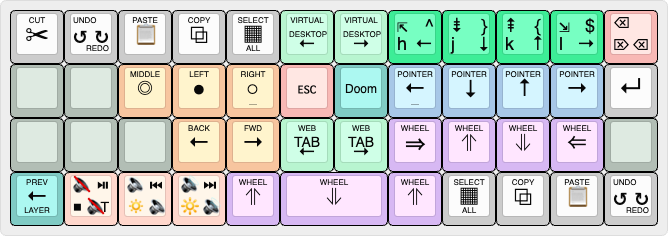
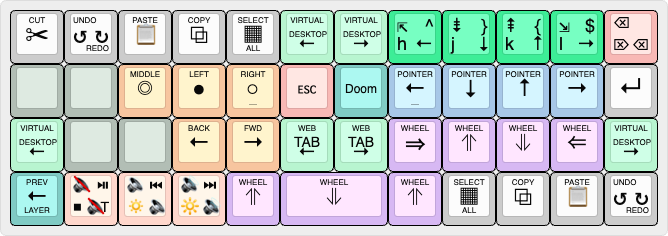
Minor changes: docs, MOUSE, some refactoring w/ constants

Changed region(s): [[0.0, 0.5042, 0.1198, 0.7415], [0.8982, 0.5042, 0.988, 0.7415]]

diff --git a/keymap.c b/keymap.c
@@ -36,10 +36,10 @@ const uint16_t PROGMEM keymaps[][MATRIX_ROWS][MATRIX_COLS] = {
  * └─────────┴─────────┴─────────┴─────────┴─────────┴───────────────────┴─────────┴─────────┴─────────┴─────────┴─────────┘
  */
 [_DOOM] = LAYOUT_planck_mit(
-    KC_ESC, ____,       ____,    KC_UP,      ____,    ____,       ____,     ____,       MS_UP,   ____,    ____,       ____,
-    TAB,    A(KC_LEFT), KC_LEFT, KC_DOWN,    KC_RGHT, A(KC_RGHT), ____,     MS_LEFT,    MS_DOWN, MS_RGHT, A(KC_RGHT), KC_ENT,
-    ____,   ____,       ____,    A(KC_DOWN), ____,    ____,       ____,     ____,       ____,    ____,    ____,       ____,
-    BASE,   MUTE,       VOLD,    VOLU,       MS_BTN1, MT(MOD_LSFT, KC_SPC), RCLK_UPPER, HOME,    PGDN,    PGUP,       END
+    KC_ESC, ____,        ____,    KC_UP,       ____,    ____,        ____, ____,       MS_UP,   ____,    ____,        ____,
+    TAB,    STRAFE_LEFT, KC_LEFT, KC_DOWN,     KC_RGHT, STRAFE_RGHT, ____, MS_LEFT,    MS_DOWN, MS_RGHT, STRAFE_RGHT, KC_ENT,
+    ____,   ____,        ____,    STRAFE_DOWN, ____,    ____,        ____, ____,       ____,    ____,    ____,        ____,
+    BASE,   MUTE,        VOLD,    VOLU,        MS_BTN1,     SPC_LSFT,      RCLK_UPPER, HOME,    PGDN,    PGUP,        END
 ),
 
 /* Numpad Layer: Hold Left Thumb Key
@@ -133,10 +133,10 @@ const uint16_t PROGMEM keymaps[][MATRIX_ROWS][MATRIX_COLS] = {
  * ZOOM+/-/RS changes browser size: increase, decrease, and reset
  */
 [_ARR_R] = LAYOUT_planck_mit(
-    CUT,  UNDO,    PASTE, COPY,    ____, ____, ANGLE_QUOTES, ALL,      COPY,      PASTE,      UNDO,       CUT,
-    DEG,  KC_BSLS, EXLM,  KC_UNDS, ____, ____, QUES,         KC_LEFT,  KC_DOWN,   KC_UP,      KC_RGHT,    ZOOM_IN,
-    ____, ____,    ____,  ____,    ____, ____, CIRC,         VDT_LEFT, VDT_RIGHT, C(KC_PGUP), C(KC_PGDN), ZOOM_OUT,
-    ____, ____,    ____,  ____,    ____,         MINS,       COMM,     ____,      ____,       ____,       ZOOM_RESET
+    CUT,  UNDO,    PASTE, COPY,    ____, ____, ANGLE_QUOTES, ALL,      COPY,      PASTE,    UNDO,     CUT,
+    DEG,  KC_BSLS, EXLM,  KC_UNDS, ____, ____, QUES,         KC_LEFT,  KC_DOWN,   KC_UP,    KC_RGHT,  ZOOM_IN,
+    ____, ____,    ____,  ____,    ____, ____, CIRC,         VDT_LEFT, VDT_RIGHT, TAB_LEFT, TAB_RGHT, ZOOM_OUT,
+    ____, ____,    ____,  ____,    ____,         MINS,       COMM,     ____,      ____,     ____,     ZOOM_RESET
 ),
 
 /* Home Row Arrows (LHS): Hold Right Index Finger on Home Row
@@ -154,10 +154,10 @@ const uint16_t PROGMEM keymaps[][MATRIX_ROWS][MATRIX_COLS] = {
  * ZOOM+/-/RS changes browser size: increase, decrease, and reset
  */
 [_ARR_L] = LAYOUT_planck_mit(
-    CUT,        UNDO,       PASTE,      COPY,     ALL,       ANGLE_QUOTES, ____, ____, COPY,    PASTE, UNDO,    CUT,
-    ZOOM_IN,    KC_LEFT,    KC_UP,      KC_DOWN,  KC_RGHT,   QUES,         ____, ____, KC_UNDS, EXLM,  KC_BSLS, DEG,
-    ZOOM_OUT,   C(KC_PGDN), C(KC_PGUP), VDT_LEFT, VDT_RIGHT, CIRC,         ____, ____, ____,    ____,  ____,    ____,
-    ZOOM_RESET, ____,       ____,       ____,     COMM,             MINS,        ____, ____,    ____,  ____,    ____
+    CUT,        UNDO,     PASTE,    COPY,     ALL,       ANGLE_QUOTES, ____, ____, COPY,    PASTE, UNDO,    CUT,
+    ZOOM_IN,    KC_LEFT,  KC_UP,    KC_DOWN,  KC_RGHT,   QUES,         ____, ____, KC_UNDS, EXLM,  KC_BSLS, DEG,
+    ZOOM_OUT,   TAB_LEFT, TAB_RGHT, VDT_LEFT, VDT_RIGHT, CIRC,         ____, ____, ____,    ____,  ____,    ____,
+    ZOOM_RESET, ____,     ____,     ____,     COMM,             MINS,        ____, ____,    ____,  ____,    ____
 ),
 
 /* (Neo)Vim (RHS): Hold Left Middle Finger on Home Row
@@ -282,18 +282,18 @@ const uint16_t PROGMEM keymaps[][MATRIX_ROWS][MATRIX_COLS] = {
  * ┌─────────┬─────────┬─────────┬─────────┬─────────┬─────────┬─────────┬─────────┬─────────┬─────────┬─────────┬─────────┐
  * │   CUT   │UNDO REDO│  PASTE  │  COPY   │ SEL ALL │DESKTOP ←│DESKTOP →│ ⇱ ^ h ← │ ⇟ } j ↓ │ ⇞ { k ↑ │ ⇲ $ l → │ ⌫   ⌦ ⌫ │
  * ├─────────┼─────────┼─────────┼─────────┼─────────┼─────────┼─────────┼─────────┼─────────┼─────────┼─────────┼─────────┤
- * │         │         │Mid Click│Lft Click│Rgt Click│   ESC   │         │Pointer ←│Pointer ↓│Pointer ↑│Pointer →│    ↵    │
+ * │         │         │Mid Click│Lft Click│Rgt Click│   ESC   │  DOOM   │Pointer ←│Pointer ↓│Pointer ↑│Pointer →│    ↵    │
  * ├─────────┼─────────┼─────────┼─────────┼─────────┼─────────┼─────────┼─────────┼─────────┼─────────┼─────────┼─────────┤
- * │         │         │         │  Back   │ Forward │  TAB ←  │  TAB →  │ Wheel → │ Wheel ↑ │ Wheel ↓ │ Wheel ← │         │
+ * │DESKTOP ←│         │         │  Back   │ Forward │  TAB ←  │  TAB →  │ Wheel → │ Wheel ↑ │ Wheel ↓ │ Wheel ← │DESKTOP →│
  * ├─────────┼─────────┼─────────┼─────────┼─────────┼─────────┴─────────┼─────────┼─────────┼─────────┼─────────┼─────────┤
  * │  BACK   │🔇⏯ ⏹ C+M│🔉⏮ 🔅🔉 │🔊⏭ 🔆🔊 │ Wheel ↑ │      Wheel ↓      │ Wheel ↑ │ SEL ALL │  COPY   │  PASTE  │UNDO REDO│
  * └─────────┴─────────┴─────────┴─────────┴─────────┴───────────────────┴─────────┴─────────┴─────────┴─────────┴─────────┘
  */
 [_MOUSE] = LAYOUT_planck_mit(
-    CUT,      UNDO, PASTE,   COPY,    ALL,     VDT_LEFT,   VDT_RIGHT,  HOME,    PGDN,    PGUP,    END,     BSPC,
-    ____,     ____, MS_BTN3, MS_BTN1, MS_BTN2, KC_ESC,     TO(_DOOM),  MS_LEFT, MS_DOWN, MS_UP,   MS_RGHT, KC_ENT,
-    ____,     ____, ____,    MS_BTN4, MS_BTN5, C(KC_PGUP), C(KC_PGDN), MS_WHLR, MS_WHLU, MS_WHLD, MS_WHLL, ____,
-    TG_MOUSE, MUTE, VOLD,    VOLU,    MS_WHLU,        MS_WHLD,         MS_WHLU, ALL,     COPY,    PASTE,   UNDO
+    CUT,      UNDO, PASTE,   COPY,    ALL,     VDT_LEFT, VDT_RIGHT, HOME,    PGDN,    PGUP,    END,     BSPC,
+    ____,     ____, MS_BTN3, MS_BTN1, MS_BTN2, KC_ESC,   DOOM,      MS_LEFT, MS_DOWN, MS_UP,   MS_RGHT, KC_ENT,
+    VDT_LEFT, ____, ____,    MS_BTN4, MS_BTN5, TAB_LEFT, TAB_RGHT,  MS_WHLR, MS_WHLU, MS_WHLD, MS_WHLL, VDT_RIGHT,
+    TG_MOUSE, MUTE, VOLD,    VOLU,    MS_WHLU,        MS_WHLD,      MS_WHLU, ALL,     COPY,    PASTE,   UNDO
 )
 
 };

diff --git a/rgb.c b/rgb.c
@@ -489,9 +489,9 @@ bool rgb_matrix_indicators_user(void) {
          * ┌─────────┬─────────┬─────────┬─────────┬─────────┬─────────┬─────────┬─────────┬─────────┬─────────┬─────────┬─────────┐
          * │   CUT   │UNDO REDO│  PASTE  │  COPY   │ SEL ALL │DESKTOP ←│DESKTOP →│ ⇱ ^ h ← │ ⇟ } j ↓ │ ⇞ { k ↑ │ ⇲ $ l → │ ⌫   ⌦ ⌫ │
          * ├─────────┼─────────┼─────────┼─────────┼─────────┼─────────┼─────────┼─────────┼─────────┼─────────┼─────────┼─────────┤
-         * │         │         │Mid Click│Lft Click│Rgt Click│   ESC   │         │Pointer ←│Pointer ↓│Pointer ↑│Pointer →│    ↵    │
+         * │         │         │Mid Click│Lft Click│Rgt Click│   ESC   │  DOOM   │Pointer ←│Pointer ↓│Pointer ↑│Pointer →│    ↵    │
          * ├─────────┼─────────┼─────────┼─────────┼─────────┼─────────┼─────────┼─────────┼─────────┼─────────┼─────────┼─────────┤
-         * │         │         │         │  Back   │ Forward │  TAB ←  │  TAB →  │ Wheel → │ Wheel ↑ │ Wheel ↓ │ Wheel ← │         │
+         * │DESKTOP ←│         │         │  Back   │ Forward │  TAB ←  │  TAB →  │ Wheel → │ Wheel ↑ │ Wheel ↓ │ Wheel ← │DESKTOP →│
          * ├─────────┼─────────┼─────────┼─────────┼─────────┼─────────┴─────────┼─────────┼─────────┼─────────┼─────────┼─────────┤
          * │  BACK   │🔇⏯ ⏹ C+M│🔉⏮ 🔅🔉 │🔊⏭ 🔆🔊 │ Wheel ↑ │      Wheel ↓      │ Wheel ↑ │ SEL ALL │  COPY   │  PASTE  │UNDO REDO│
          * └─────────┴─────────┴─────────┴─────────┴─────────┴───────────────────┴─────────┴─────────┴─────────┴─────────┴─────────┘

diff --git a/keymap.h b/keymap.h
@@ -26,6 +26,7 @@
 #define R_RSFT    MT(MOD_RSFT, KC_R)
 #define SCLN_LSFT MT(MOD_LSFT, KC_SCLN)
 #define SLSH_HYPR MT(MOD_HYPR, KC_SLSH)
+#define SPC_LSFT  MT(MOD_LSFT, KC_SPC)
 #define UNDS_MEH  MT(MOD_MEH,  KC_UNDS)
 #define V_MEH     MT(MOD_MEH,  KC_V)
 #define Z_HYPR    MT(MOD_HYPR, KC_Z)
@@ -52,10 +53,10 @@
 #define T_VIM_L   LT(_VIM_L,  KC_T)   // │    t    │ Vim LHS │
 #define ZERO_ADJ  LT(_ADJ,    KC_P0)  // │ Numpad 0│  F1-F12 │
 
-#define BASE TO(_BASE)
-#define DOOM TG(_DOOM)
+#define RCLK_UPPER LT(_UPPER, MS_BTN2) // Doom
 
-#define RCLK_UPPER LT(_UPPER, MS_BTN2)
+#define BASE TO(_BASE)
+#define DOOM TO(_DOOM)
 
 /*** TD Keycodes: Tap Dances **********************************/
 
@@ -173,6 +174,16 @@
 /*** Other Keycodes *******************************************/
 
 #define MACOS_EMOJI_MENU LGUI(C(KC_SPC))
+
+// Browser Navigation
+#define TAB_LEFT C(KC_PGUP)
+#define TAB_RGHT C(KC_PGDN)
+
+// Doom Movement
+#define STRAFE_LEFT A(KC_LEFT)
+#define STRAFE_RGHT A(KC_RGHT)
+#define STRAFE_UP   A(KC_UP)
+#define STRAFE_DOWN A(KC_DOWN)
 
 // ─────────────────────────────────────────────────────────────
 // Layers Names

diff --git a/DESIGN.md b/DESIGN.md
@@ -58,7 +58,9 @@ The layout is optimized around English letter frequency, English‑centric n‑g
 > [!IMPORTANT]
 > **Operating System Keyboard Settings**
 >
-> On macOS, the input source must be set to **ABC – Extended**. Other layouts may alter Option‑based characters or dead‑key behavior and can produce incorrect special‑character output. For Linux and Microsoft Windows, the standard US layout should work as expected.
+> On macOS, the input source must be set to **ABC – Extended**. Other layouts may alter Option‑based characters or dead‑key behavior and can produce incorrect special‑character output. This input source does not appear to conflict with system or application shortcuts and behaves similarly to the standard US layout in that regard.
+>
+> For Linux and Microsoft Windows, the standard US layout should work as expected.
 
 > [!TIP]
 > Light multilingual support is avaliable on the arrow‑key layers, including common Spanish punctuation `¡`, `¿`, accented vowels (via combining acute), `ñ`/`Ñ`, and related symbols. This is likely more useful for North Americans.
@@ -119,9 +121,29 @@ Triple tap sits outside the spectrum of general use. They’re possible, but the
 
 Patterns like double‑tap‑and‑hold exist in theory, but they cross the line from ergonomics into keyboard choreography. At that point the gesture becomes harder to perform than the symbol or action is worth, so I avoid them entirely.
 
+### Macros
+
+Macros serve a different but complementary purpose to tap dances. Where tap dances expose additional characters or motions through rhythmic input, macros automate multi‑step actions that would otherwise interrupt flow. They’re used for repeated n‑gram patterns, editor commands, and generic system tasks such as opening the Trash folder on macOS.
+
+Macros in this layout follow a few principles:
+
+* They should reduce cognitive load, not add to it. A macro should replace a tedious sequence you already perform, not introduce a new workflow you have to remember.
+* They should be predictable, easy to remember, and assist with typing flow.
+* They should reduce or eliminate friction and help keep the hands anchored to home position during repetitive tasks.
+* They should never compete with typing. No macro should be placed on a gesture that risks accidental activation during normal text entry.
+* They should complement software, not replace it. QMK allows arbitrarily long macros, but firmware is best for short, deterministic sequences. Anything more complex belongs directly in the editor, shell, or OS.
+
+The original ZSA Oryx‑based versions of this layout were constrained by the platform’s macro limits, which shaped how early versions were designed.[^oryx-macro-limit] Moving to QMK removed those constraints and made it possible to integrate macros more naturally with the tap‑dance system.
+
+[^oryx-macro-limit]: As of April 2025, ZSA Oryx macros are [limited to 25 steps](https://blog.zsa.io/longer-oryx-macros/), up from the original — and frankly tiny — [5‑step limit](https://blog.zsa.io/macro-expansion/). QMK places no practical limit on macro length, though beyond a certain point software‑level automation is usually a better fit than firmware. And for the love of security, never store passwords or other sensitive data in macros. Also note that Oryx cannot combine tap dances with macros.
+
 ### Apple macOS Oriented
 
-While the layout includes Linux and Microsoft Windows modes, it is primarily designed around macOS workflows. Additional Linux support is planned for the future.
+Apple macOS is the primary target platform for this layout, even though Linux and Microsoft Windows modes are included for cross-platform support.
+
+With an **OS Mode** key, you can select your current operating system to get the appropriate keyboard shortcuts for copy/paste, window management, and virtual desktop/workspace commands. Special characters are also output correctly depending on the selected OS.
+
+Additional Linux support is planned for the future.
 
 > [!WARNING]
 > Linux and Microsoft Windows support is currently untested.
@@ -280,6 +302,11 @@ From left to right, the three media keys use the following tap‑dance behaviors
 
 I mostly use these keys for volume control and quick play/pause actions.
 
+#### Other Keys
+
+* `Tab` on tap and `Shift-Tab` on hold lives on the first column of home row.
+*  `Enter` is also available as a tap‑and‑hold gesture on the spacebar, offering an alternative to the pinky key.
+
 ### Lower: Numpad
 
 ![Lower: Numpad with hexadecimal](assets/02_LOWER.png)
@@ -407,12 +434,13 @@ Holding either index finger on the home row activates a mirrored arrow‑navigat
 * On macOS, the combining circumflex (`ˆ`) is available in the U.S. layout, but macron (`¯`), breve (`˘`), and caron (`ˇ`) require the **ABC – Extended** input source to produce the correct dead‑key sequences.
   * For circumflex, the shortcut is `Option-i` for the U.S. layout and `Option-6` for **ABC – Extended**.
 * The full dash set of hyphen (`-`), en dash (`–`), and em dash (`—`) are available on the spacebar via tap dances.
+* Cursor‑centered angled‑quote macros are included for completeness in French and formal Spanish typography.
 
 #### English Loanwords
 
-Tap dances on the arrow layers provide combining accents and extended punctuation, making it easy to type accented characters that appear in English [loanwords](https://en.wikipedia.org/wiki/Loanword). This includes forms such as à, á, â, ä, é, í, ñ, ó, ö, ú, and others.
+Tap dances on the arrow layers provide combining accents and extended punctuation, making it easy to type accented characters that appear in English [loanwords](https://en.wikipedia.org/wiki/Loanword)—most commonly from French, Spanish, and German, with a smaller set from Portuguese, where only a few words retain their original accents. This includes forms such as à, á, â, ä, é, í, ñ, ó, ö, ú, and others. The accessibility of accented characters reduces the need for users to memorize platform‑specific shortcuts or Unicode values.
 
-Common examples include à la, vis‑à‑vis, café, purée, déjà vu, naïve, doppelgänger, Zoë, jalapeño, piñata, and São Paulo. This keeps accented characters accessible without requiring users to memorize platform‑specific shortcuts or Unicode values.
+In contemporary English writing, accented forms appear more consistently than in the past. Modern style guides and digital typography increasingly preserve the original spelling of borrowed words, especially in food, culture, and proper names. As a result, accented loanwords such as à la, à propos, vis‑à‑vis, café, crème brûlée, cliché, touché, résumé, déjà vu, naïve, über, doppelgänger, jalapeño, piñata, and place names such as São Paulo, as well as personal names like Zoë, Chloë, José or Beyoncé, are now common in everyday text.
 
 ### Vim
 
@@ -476,13 +504,15 @@ The only minor downsides are the need for two‑hand operation and the practice 
 
 ![Doom Classic layer](assets/01_DOOM.png)
 
-And finally, the most important question: can the Planck play Doom? It sure does!
+And finally, the most important question: can the Planck play _Doom_? It sure does!
 
-This layer is an optional game‑focused mode built around vanilla _Doom_ (1993). It replaces the typing layout with a tight movement cluster, dedicated strafing keys, and thumb‑accessible actions so your hands never leave position during play. Arrow and strafe keys sit under the right hand, while Left Click, Right Click, Space, and Shift live on the thumbs for fast firing, opening doors, and running.
+This layer is an optional game‑focused mode built around vanilla _Doom_ (1993) ports. It replaces the typing layout with a tight movement cluster, dedicated strafing keys, and thumb‑accessible actions so your hands never leave position during play. Arrow and strafe keys sit under the left hand, while Left Click, Right Click, Space, and Shift live on the thumbs for fast firing, opening doors, and running.
 
 Weapon switching stays consistent with the rest of your layout: holding the right‑thumb key momentarily opens **Upper**, letting you press `1`–`7` without adding number keys to this layer.
 
 Arrows and mouse controls also make this layer usable for lightweight general navigation, using traditional T‑shaped clusters.
+
+This layer serves as a generic gaming template that you can refactor into your preferred control scheme.
 
 ## RGB Matrix for the Planck MIT
 

diff --git a/README.md b/README.md
@@ -30,9 +30,9 @@ The MK‑47 is typically an in‑store Micro Center exclusive, but it’s occasi
 Each layer is presented as a rendered diagram generated with [keyboard-layout-editor.com](https://keyboard-layout-editor.com) for quick visual reference.
 
 > [!IMPORTANT]
-> On macOS, this keymap expects the system input source to be **ABC – Extended**. Other layouts may change how certain Option‑based characters or dead‑key sequences behave and can lead to inconsistent output.
->
-> Linux and Microsoft Windows should use the standard US layout, which matches the assumptions of the firmware and keeps behavior consistent across platforms.
+> On macOS, this keymap is designed to be used with the **ABC – Extended** input source. Other layouts may alter how Option‑based characters or dead‑key sequences behave, leading to inconsistent output. Apple provides this input source for English‑language users who need a more complete set of diacritical marks and international symbols without switching to a separate language layout. This input source does not interfere with standard system shortcuts.
+> 
+> Because Linux and Microsoft Windows accept Unicode directly from HID, the standard US layout works correctly when the keyboard is used in those modes.
 
 ### Legend
 
